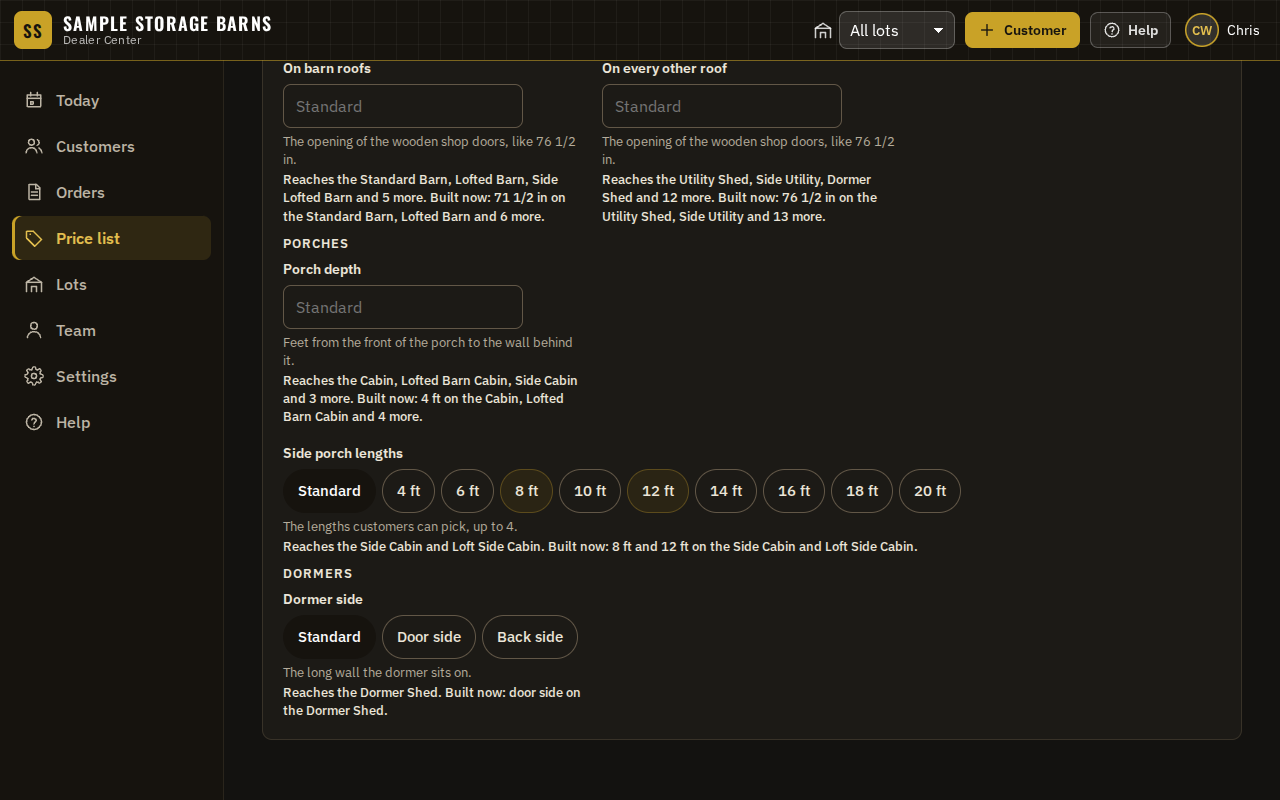
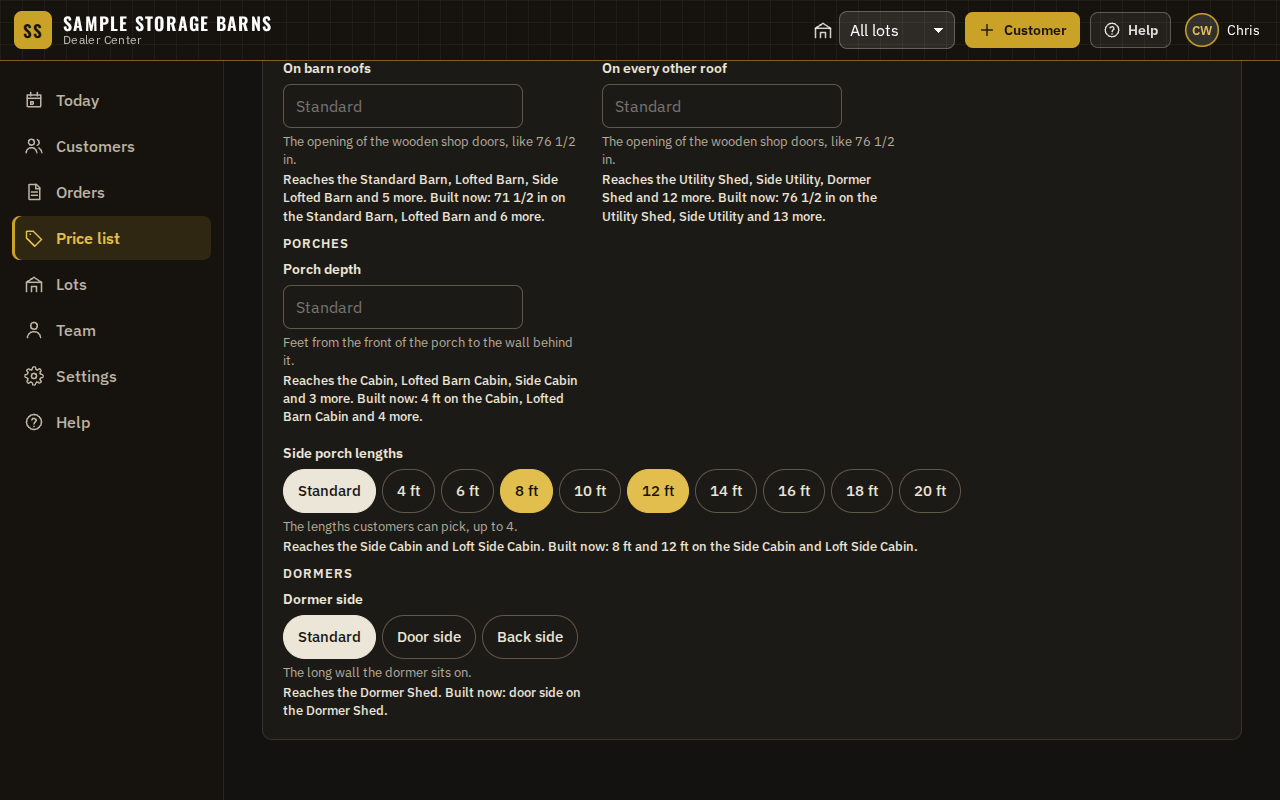
Dealer Center: picked How it's built chips stand out from unpicked ones
At night a picked chip was nearly the card's own colour, so it looked
like plain words while unpicked chips looked like buttons. Picked chips
are now filled light (gold when they come from the standard) with dark
words. In daylight a picked standard chip gets a gold edge. The colour
check now also requires a picked chip to differ from an unpicked one by
3:1 in fill or edge. Pictures retaken.

Claude-Session: https://claude.ai/code/session_01YbvhRAd6vT45bY9za4dj5x

diff --git a/ui/office/owner.css b/ui/office/owner.css
@@ -227,7 +227,7 @@ a.pl-card:hover { border-color: var(--gold); }
   border: 1px solid var(--line-strong); background: #fff; color: var(--ink); cursor: pointer; font-size: 14.5px; font-weight: 500; font-variant-numeric: tabular-nums;
 }
 .pl-built-chip[aria-pressed=true] { background: var(--brand-header); border-color: var(--brand-header); color: #fff; }
-.pl-built-chip.std[aria-pressed=true] { background: var(--gold-soft); border-color: var(--gold-line); color: #5E480C; }
+.pl-built-chip.std[aria-pressed=true] { background: var(--gold-soft); border-color: var(--gold-deep); color: #5E480C; }
 .pl-built-from { display: block; margin-top: 2px; color: var(--ink); font-weight: 500; }
 .pl-built-chip:focus-visible { outline: 3px solid var(--focus); outline-offset: 2px; }
 .pl-built-check { display: grid; gap: 10px; margin-top: 6px; }
@@ -885,9 +885,12 @@ body.set-bar-on .toasts { bottom: 96px; }
   .pl-preview-head, .pl-preview-nums strong, .pl-sheet-title { color: var(--ink); }
   .pl-card-name, .pl-page-title { color: var(--ink); }
   .pl-saved-mark { background: #2E7D32; }
-  /* Chips follow the dark cards: light words on a dark pill. */
+  /* Chips follow the dark cards: an unpicked chip is light words on a dark
+     pill; a picked chip is filled light (gold when it comes from the
+     standard) with dark words, so picked and unpicked never look alike. */
   .pl-built-chip { background: var(--card); }
-  .pl-built-chip.std[aria-pressed=true] { color: var(--ink); }
+  .pl-built-chip[aria-pressed=true] { background: var(--ink); border-color: var(--ink); color: #16130E; }
+  .pl-built-chip.std[aria-pressed=true] { background: var(--gold-deep); border-color: var(--gold-deep); color: #16130E; }
 }
 
 /* A layout reset keeps both choices above the save bar, with room for a
